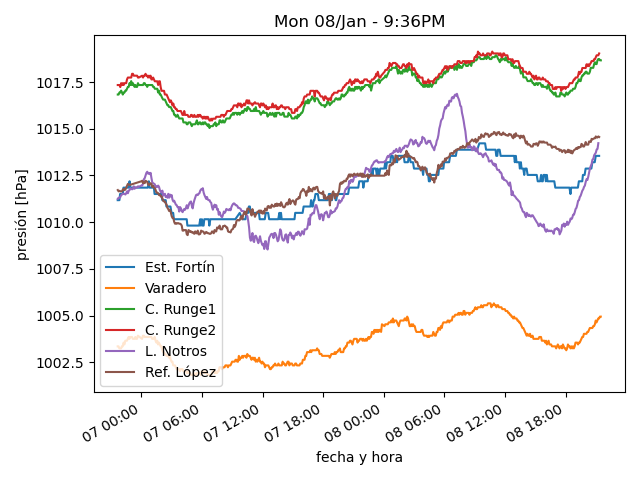
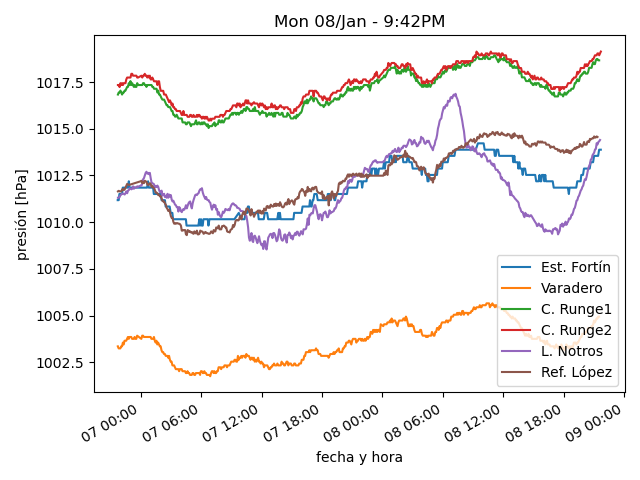
actualiza datos

diff --git a/estaciones/estacion1.html b/estaciones/estacion1.html
@@ -18,32 +18,32 @@
     </tr>
     <tr>
      <td class="stats_data">
-      9:19PM
+      9:39PM
      </td>
     </tr>
     <tr>
      <td class="stats_data">
-      12.3
+      11.8
      </td>
     </tr>
     <tr>
      <td class="stats_data">
-      4.0
+      4.2
      </td>
     </tr>
     <tr>
      <td class="stats_data">
-      57.0
+      59.7
      </td>
     </tr>
     <tr>
      <td class="stats_data">
-      1013.55
+      1013.88
      </td>
     </tr>
     <tr>
      <td class="stats_data">
-      14.1/20.4 W
+      7.4/15.0 WSW
      </td>
     </tr>
     <tr>
@@ -58,7 +58,7 @@
     </tr>
     <tr>
      <td class="stats_data">
-      7.0
+      0.0
      </td>
     </tr>
    </tbody>

diff --git a/estaciones/estacion4.html b/estaciones/estacion4.html
@@ -18,32 +18,32 @@
     </tr>
     <tr>
      <td class="stats_data">
-      9:19PM
+      9:39PM
      </td>
     </tr>
     <tr>
      <td class="stats_data">
-      11.9
+      11.4
      </td>
     </tr>
     <tr>
      <td class="stats_data">
-      4.2
+      4.3
      </td>
     </tr>
     <tr>
      <td class="stats_data">
-      59.0
+      61.9
      </td>
     </tr>
     <tr>
      <td class="stats_data">
-      1016.02
+      1016.12
      </td>
     </tr>
     <tr>
      <td class="stats_data">
-      3.3/5.2 S
+      1.8/3.5 SSW
      </td>
     </tr>
     <tr>
@@ -58,7 +58,7 @@
     </tr>
     <tr>
      <td class="stats_data">
-      4.7
+      0.5
      </td>
     </tr>
    </tbody>

diff --git a/estaciones/estacion5.html b/estaciones/estacion5.html
@@ -18,27 +18,27 @@
     </tr>
     <tr>
      <td class="stats_data">
-      9:15PM
+      9:35PM
      </td>
     </tr>
     <tr>
      <td class="stats_data">
-      11.4
+      11.1
      </td>
     </tr>
     <tr>
      <td class="stats_data">
-      5.5
+      5.2
      </td>
     </tr>
     <tr>
      <td class="stats_data">
-      67.0
+      68.0
      </td>
     </tr>
     <tr>
      <td class="stats_data">
-      1016.8
+      1016.97
      </td>
     </tr>
     <tr>
